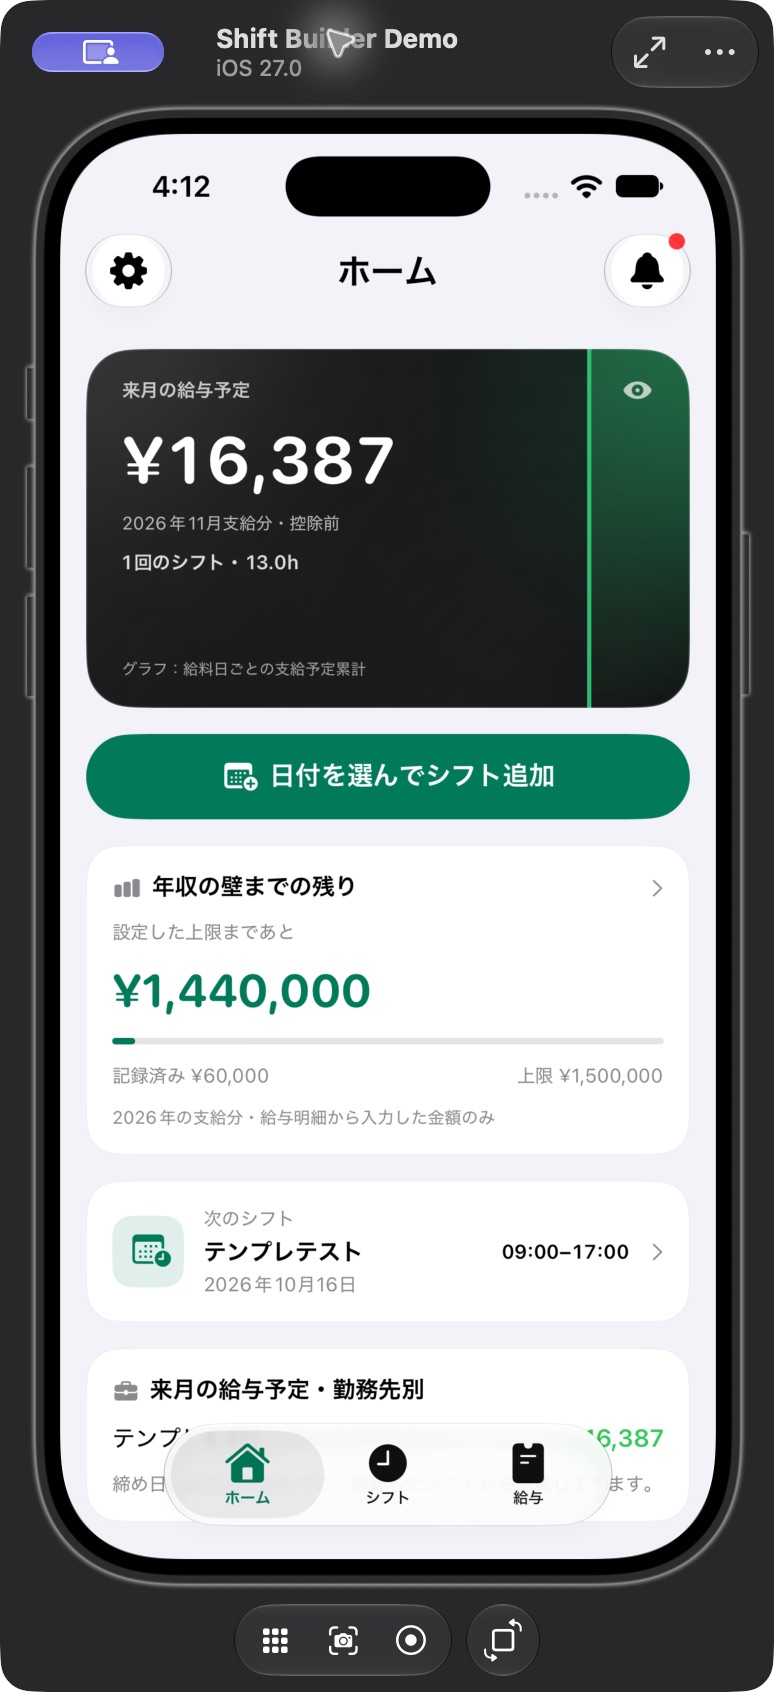
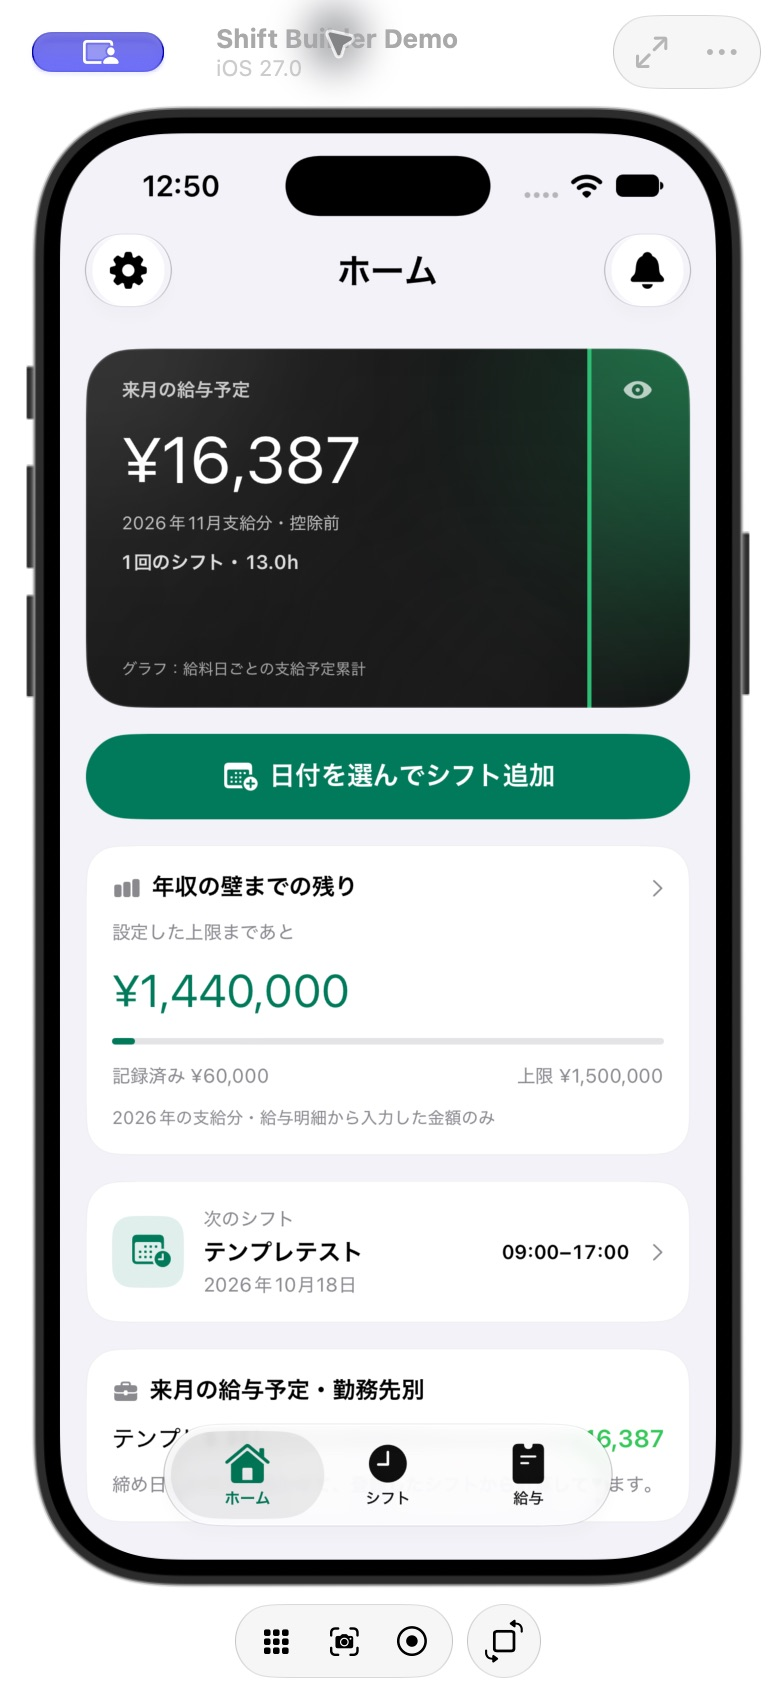
Use standard typography for pay amounts

diff --git a/ShiftManagerApp/ShiftManagerApp/IncomeWallView.swift b/ShiftManagerApp/ShiftManagerApp/IncomeWallView.swift
@@ -30,7 +30,7 @@ struct RecordedIncomeWallCard: View {
                     Text(summary.taxableGross > annualTarget ? "設定した上限を超えた金額" : "設定した上限まであと")
                         .font(.caption).foregroundStyle(.secondary)
                     Text(yen(abs(annualTarget - summary.taxableGross)))
-                        .font(.system(size: 28, weight: .bold, design: .rounded))
+                        .font(.system(size: 28, weight: .regular, design: .default))
                         .foregroundStyle(summary.taxableGross > annualTarget ? Color.orange : Color.accentColor)
                     ProgressView(value: min(summary.taxableGross, annualTarget), total: annualTarget)
                     HStack {
@@ -40,7 +40,7 @@ struct RecordedIncomeWallCard: View {
                     }.font(.caption).foregroundStyle(.secondary)
                 } else {
                     Text("今年の給与（入力済み）").font(.caption).foregroundStyle(.secondary)
-                    Text(yen(summary.taxableGross)).font(.title2.weight(.bold)).foregroundStyle(.primary)
+                    Text(yen(summary.taxableGross)).font(.title2.weight(.regular)).foregroundStyle(.primary)
                     Text("自分の上限を設定する").font(.subheadline.weight(.semibold)).foregroundStyle(Color.accentColor)
                 }
                 Text("\(String(year))年の支給分・給与明細から入力した金額のみ")

diff --git a/ShiftManagerApp/ShiftManagerApp/WageTab.swift b/ShiftManagerApp/ShiftManagerApp/WageTab.swift
@@ -138,8 +138,8 @@ struct WageTab: View {
         VStack(alignment: .leading, spacing: 10) {
             Text(recordedGross.isEmpty ? "この月に支給される給与見込み" : "この月の給与（入力済み）")
                 .font(.subheadline).foregroundStyle(.secondary)
-            Text(yen(recordedGross.isEmpty ? payslip.grossTotal : recordedGross.reduce(0, +))).font(.system(size: 32, weight: .bold, design: .rounded))
-                .foregroundStyle(Color.accentColor).monospacedDigit().minimumScaleFactor(0.6).lineLimit(1)
+            Text(yen(recordedGross.isEmpty ? payslip.grossTotal : recordedGross.reduce(0, +))).font(.system(size: 32, weight: .regular, design: .default))
+                .foregroundStyle(Color.accentColor).minimumScaleFactor(0.6).lineLimit(1)
             if recordedGross.isEmpty {
                 Text("控除前の金額です。給料日に、給与明細の実際の金額を入力できます。")
                     .font(.caption).foregroundStyle(.secondary)

diff --git a/ShiftManagerApp/ShiftManagerApp/ContentView.swift b/ShiftManagerApp/ShiftManagerApp/ContentView.swift
@@ -377,8 +377,8 @@ private struct OverviewTab: View {
                 }
 
                 Text(showBalance ? yen(payslip.grossTotal) : "••••••••")
-                    .font(.system(size: 40, weight: .bold, design: .rounded))
-                    .monospacedDigit().minimumScaleFactor(0.65).lineLimit(1)
+                    .font(.system(size: 40, weight: .regular, design: .default))
+                    .minimumScaleFactor(0.65).lineLimit(1)
                     .foregroundStyle(.white)
                     .contentTransition(.numericText())
                     .padding(.top, 12)

diff --git a/docs/VALIDATION.md b/docs/VALIDATION.md
@@ -29,6 +29,10 @@
 
 READMEの現在のホーム・テンプレート・給与入力のPNGは今回の実画面です。給料日のGIFは以前の撮影で、アニメーションの実装を維持していますが、最新版で給料日当日の表示を改めて撮影したものではありません。
 
+## 数字の書体の調整（2026-10-16）
+
+ホーム・給与・年収カードの大きな金額を、丸い太字からiOS標準書体の通常の太さへ変更しました。ホームと給与の見出しにあった等幅数字の指定も外しています。LocalDeviceの署名なしarm64ビルド成功と、同じ架空データでのホーム・給与画面の表示を確認し、READMEのホーム画像を更新しました。計算処理に変更はなく、単体テストは再実行していません。
+
 ## 登録・編集のバグ修正（2026-10-16）
 
 - テンプレート・手動入力・写真取り込みで既存勤務との時間重複を検証。時給や手当だけ違う同時間帯の勤務、別勤務先、日跨ぎも対象。編集時は自分自身のIDを除外し、連続する勤務と時間帯の間の空きは許可します。

diff --git a/docs/DESIGN.md b/docs/DESIGN.md
@@ -19,6 +19,8 @@
 
 ## ホーム：来月の給与予定を見返す
 
+金額はiOS標準の書体と通常の太さで表示し、ホーム・給与・年収で揃えます。丸い太字や、見出しの数字を等幅にする装飾は使いません。
+
 黒いカードとグラフの見た目を残し、登録したシフトから来月支給される金額を表示します。他タブで閲覧している月には連動させず、今日を基準にした翌月の支給分を使います。
 
 勤務先の締め日・支給日・休日調整で対象勤務を絞り、控除前であることを表示。グラフは給料日ごとの支給予定の累計です。勤務先が未登録なら推測で含めず、設定への案内を出します。実際の手取りと混ぜません。
